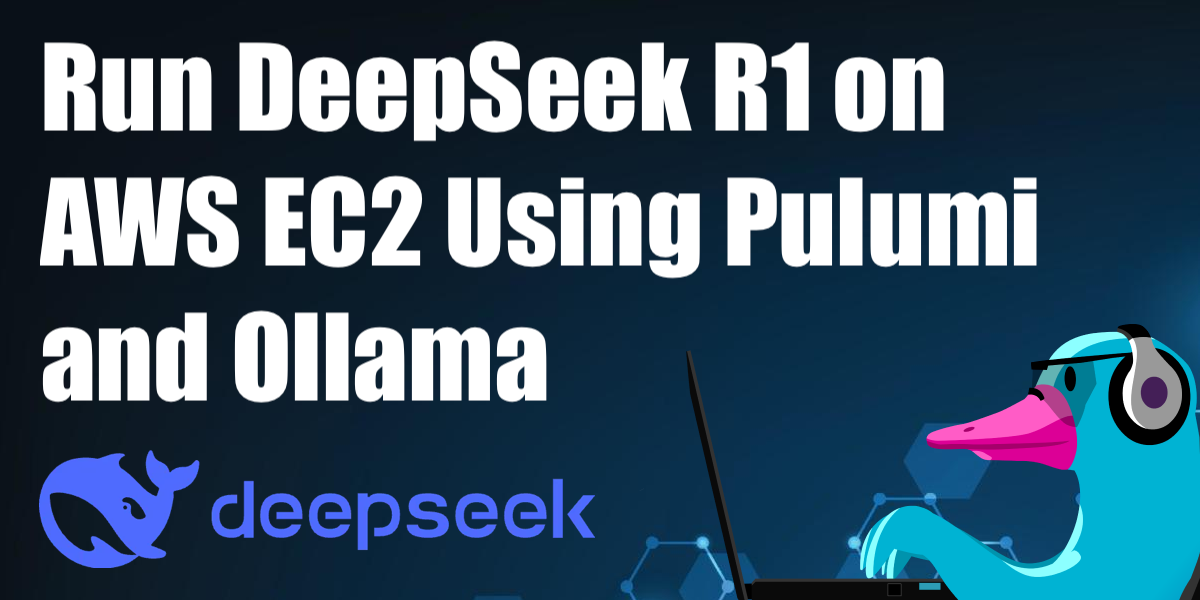
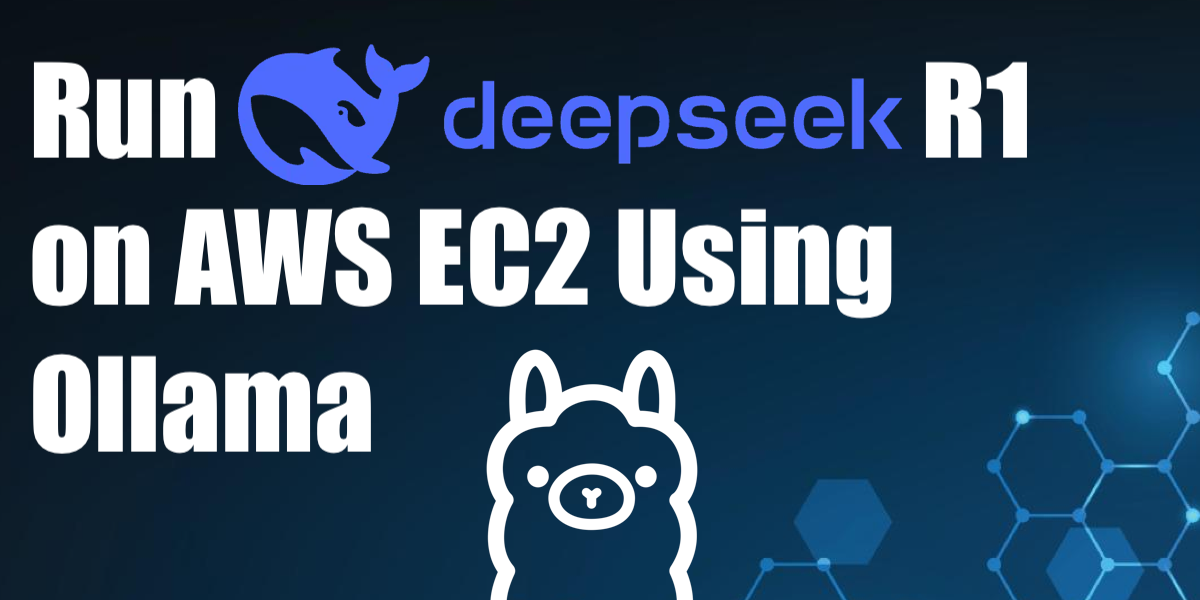
fix: Run DeepSeek R1 on AWS EC2 Using Ollama

diff --git a/content/blog/run-deepseek-on-aws-ec2-using-pulumi/index.md b/content/blog/run-deepseek-on-aws-ec2-using-pulumi/index.md
@@ -1,9 +1,9 @@
 ---
-title: "Run DeepSeek R1 on AWS EC2 Using Pulumi and Ollama"
+title: "Run DeepSeek-R1 on AWS EC2 Using Ollama"
 date: 2025-01-27
 draft: false
 meta_desc: |
-    Learn how to set up and run DeepSeek R1 on an AWS EC2 instance using Pulumi and Ollama.
+    Learn how to set up and run DeepSeek-R1 on an AWS EC2 instance using Ollama.
 
 meta_image: meta.png
 
